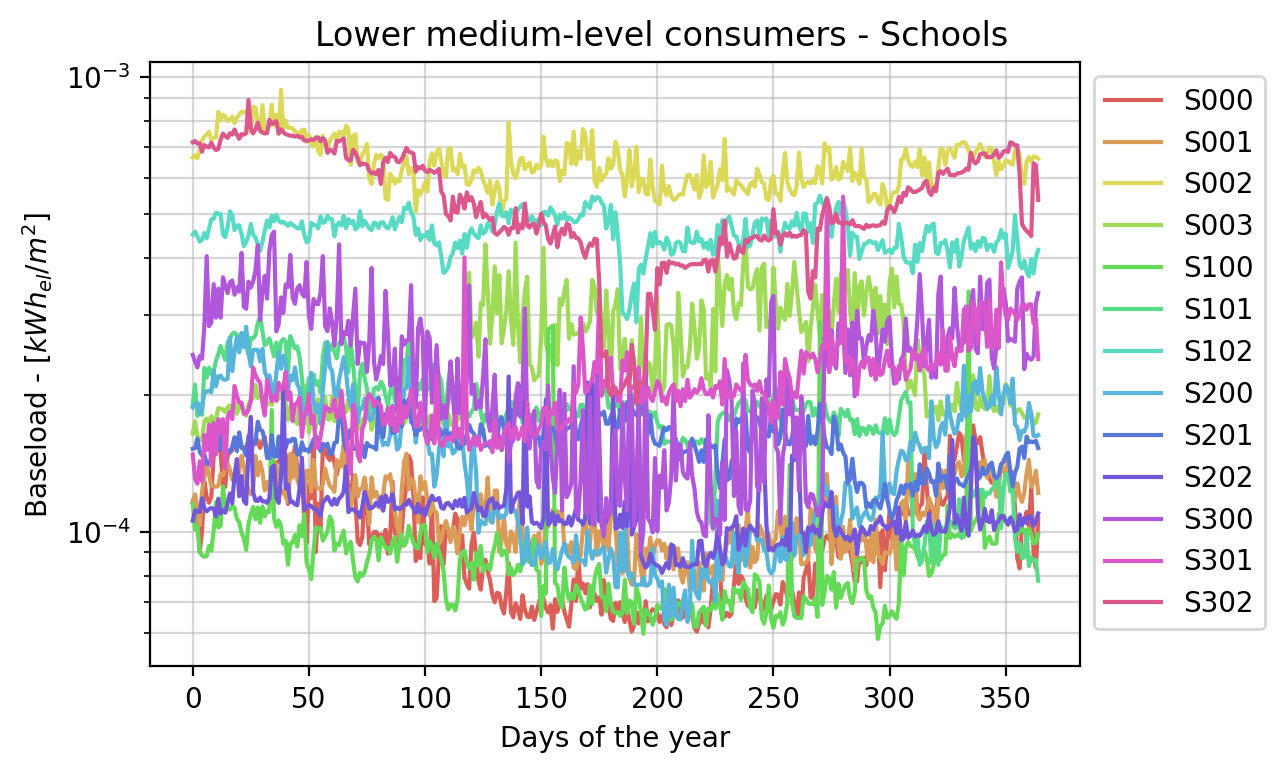
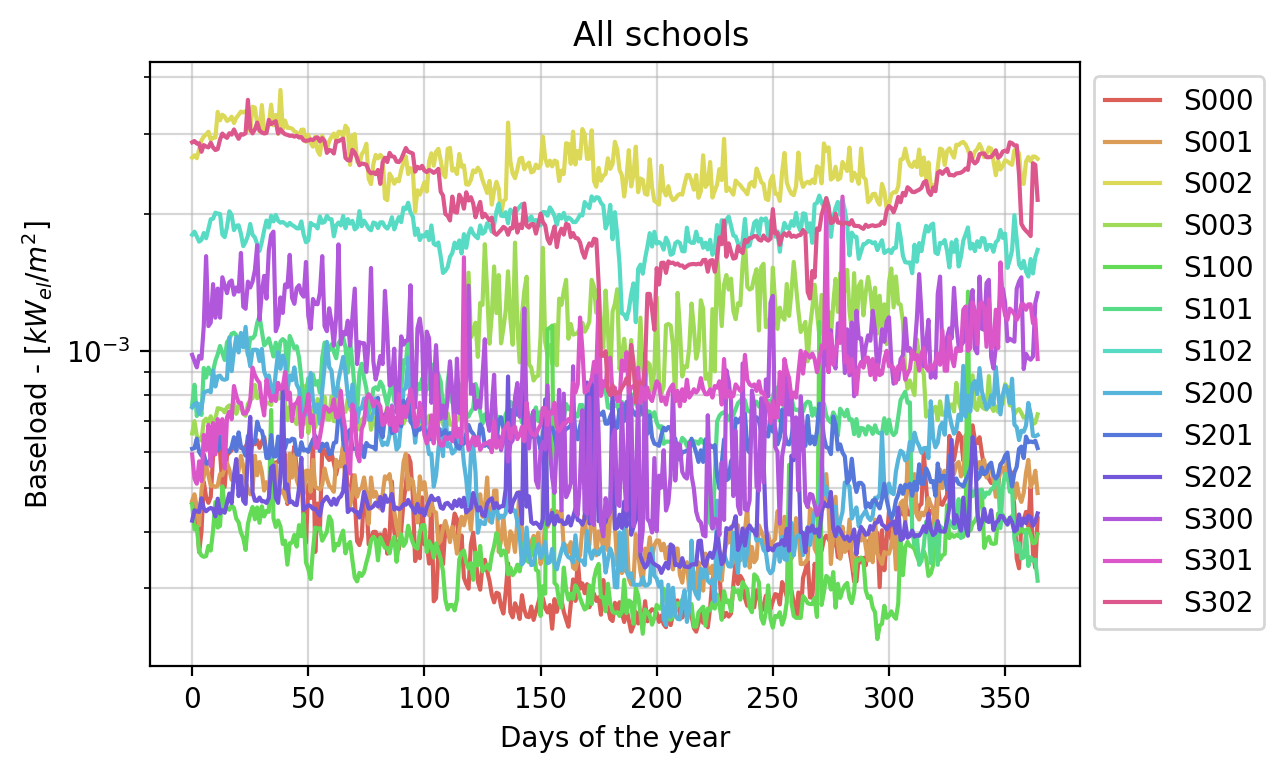
last push of the night

diff --git a/baseload_analysis.py b/baseload_analysis.py
@@ -227,13 +227,13 @@ relative_slope = []
 
 # Perform linear regression and plot for each column
 for i, column in enumerate(df.columns):
-    #if i in [0, 1, 4, 7, 9]: #low-level
-            #plt.ylim(0.00005, 0.0003)
+    if i in [0, 1, 4, 7, 9]: #low-level
+            plt.ylim(0.0002, 0.0012)
     #if i in [5, 8, 10, 11, 3]: #medium level
-            #plt.ylim(0.00005, 0.0005)
-    if i in [2, 6,12]:
+            #plt.ylim(0.0002, 0.002)
+    #if i in [2, 6,12]:
         
-            plt.ylim(0.00015, 0.001)
+            #plt.ylim(0.0005, 0.004)
             
             # Replace 0 values with NaN
             infra = df[column].copy()
@@ -245,7 +245,7 @@ for i, column in enumerate(df.columns):
     
             X = np.array(infra.index).reshape(-1, 1)   # Independent variable
             #print(X)
-            y = infra.values.reshape(-1, 1)              # Dependent variable
+            y = 4*infra.values.reshape(-1, 1)              # Dependent variable
             
             # Plot data points
             ax.scatter(X, y, color=palette[i], alpha=0.3, s=10)
@@ -272,12 +272,12 @@ for i, column in enumerate(df.columns):
             # Set labels and title
             ax.set_title(f'{column}')
             ax.set_xlabel('Days')
-            ax.set_ylabel('Baseload [$kWh_{el}/m^2$]')
+            ax.set_ylabel('Baseload [$kW_{el}/m^2$]')
             ax.legend()
 
 #plt.ylim(0, 3e-12)
 #plt.yscale("log")
-plt.title("High-level consumers")
+plt.title("Low-level consumers")
 # Place legend outside the plot
 plt.legend(bbox_to_anchor=(1.05, 1), loc='upper left')
 plt.grid(which='both')
@@ -464,27 +464,27 @@ plt.show()
 plt.figure()
 
 for i, column in enumerate(result.columns):
-    #if i in [0, 1, 4, 7, 9]: #low-level
+    if i in [0, 1, 4, 7, 9]: #low-level
             #plt.ylim(0.00005, 0.0003)
-    if i in [5, 8, 10, 11, 3]: #medium level
+    #if i in [5, 8, 10, 11, 3]: #medium level
             #plt.ylim(0.00005, 0.0005)
     #if i in [2, 6,12]:
     
             if column == "S202" or column == "S301":
-                mean = (baseloads[column].tail(365).values)
+                mean = 4*(baseloads[column].tail(365).values)
                 plt.plot(mean, color=my_colors[i], label=column)
             else : 
-                mean = (baseloads[column].head(365).values + baseloads[column].tail(365).values) / 2
+                mean = 4*(baseloads[column].head(365).values + baseloads[column].tail(365).values) / 2
                 plt.plot(mean, color=my_colors[i], label=column)
 
             print(f"{column} : {np.max(mean)/np.min(mean)}")
             
-plt.yscale('log')
+#plt.yscale('log')
 
 plt.grid(which="both", alpha=0.5)
 plt.xlabel("Days of the year")
-plt.ylabel("Baseload - [$kWh_{el}/m^2$]")
-plt.title("Medium-level consumers").set_position([0.55, 1])
+plt.ylabel("Baseload - [$kW_{el}/m^2$]")
+plt.title("Low-level consumers").set_position([0.55, 1])
 plt.legend(loc='upper left', bbox_to_anchor=(1, 1))
 #plt.legend()
 #plt.subplots_adjust(top=2)
@@ -500,7 +500,12 @@ x = np.array(["S100", "S101", "S201", "S202", "S301", "S102", "S200", "S300", "S
 # Create a bar plot
 plt.bar(np.arange(len(y)), 100*365*y, color="royalblue")
 
-print(100*365*y)
+yy = 100*365*y
+
+mi = min(yy)
+ma = max(yy)
+
+thresholds = [v/100*(ma-mi)+mi for v in [0, 20, 40, 60, 80, 100]]
 
 # Adding labels under each bar
 plt.xticks(np.arange(len(x)), x)
@@ -512,30 +517,8 @@ plt.grid(axis='y')
 
 #%% grading for comparison matrix - baseload trend score 
 
-def get_score(typology_names, parameters):
-    min_ = min(parameters)
-    max_= max(parameters)
     
-    grades = {}
-    classes = {}
-    
-    for i, value in enumerate(parameters):
-        grades[typology_names[i]] = 100*(parameters[i]-min_)/(max_-min_)
-    
-        if grades[typology_names[i]] <= 20 : 
-            classes[typology_names[i]] = 1
-        elif grades[typology_names[i]] <= 40 :
-            classes[typology_names[i]] = 2
-        elif grades[typology_names[i]] <= 60 :
-            classes[typology_names[i]] = 3
-        elif grades[typology_names[i]] <= 80 :
-            classes[typology_names[i]] = 4
-        elif grades[typology_names[i]] <= 100 :
-            classes[typology_names[i]] = 5
-    
-    return grades, classes
-    
-grades, classes = get_score(x, y)
+grades, classes, thresolds = f.get_score(x, y)
 
 plt.figure()
 for i, (k, v) in enumerate(classes.items()):

diff --git a/total_consumption.py b/total_consumption.py
@@ -78,7 +78,8 @@ def discriminate_typologies_absolute(Building_dict, LoadCurve_dict, Typo_list):
             surf_id_dict = {k: v for k, v in zip(Complete_IDs, surface_list)}
             address_id_dict = {k: v for k, v in zip(Complete_IDs, address_list)}
             simple_id_dict = {k:v for k, v in zip(Complete_IDs,simple_IDs)}
-            
+            simple_id_address_dict = {k:v for k, v in zip(simple_IDs, address_list)}
+            print(simple_id_address_dict)
             for col_name in load_selected.columns:
                 load_selected[col_name]
             
@@ -95,7 +96,7 @@ def discriminate_typologies_absolute(Building_dict, LoadCurve_dict, Typo_list):
             #renaiming columns with simple IDs to conserve anonimity 
             Typo_loads[typo].rename(columns=simple_id_dict, inplace=True)
       
-    return Typo_loads
+    return Typo_loads, simple_id_address_dict
 
 
 
@@ -182,10 +183,10 @@ print(pv_2022_dict)
 Typo_list = ["Ecole", "Culture", "Apems", "Commune", "Buvette", "Parking"]
 print(type(Building_dict_2023), type(LoadCurve_2022_dict), type(Typo_list))
 #getting typologies from 2022
-Typo_loads_2022 = discriminate_typologies_absolute(Building_dict_2023, LoadCurve_2022_dict, Typo_list)
+Typo_loads_2022, _ = p.discriminate_typologies(Building_dict_2023, LoadCurve_2022_dict, Typo_list)
 
 #getting typologies from 2023
-Typo_loads_2023 = discriminate_typologies_absolute(Building_dict_2023, LoadCurve_2023_dict, Typo_list)
+Typo_loads_2023, Correspondance = p.discriminate_typologies(Building_dict_2023, LoadCurve_2023_dict, Typo_list)
 
 # creating overall dictionnary
 Typo_all_loads = {}
@@ -193,6 +194,10 @@ for typo in Typo_list:
     Typo_all_loads[typo] = pd.concat([Typo_loads_2022[typo], Typo_loads_2023[typo]], axis=0)
     
 #print(Typo_loads)
+
+
+
+
 
 #%%
 # parameters to change
@@ -210,10 +215,68 @@ df_nan = Loads.replace(0, np.nan)
 mean_values = df_nan.mean()
 
 
-plt.scatter(range(len(mean_values)), 4*mean_values)
+plt.bar(range(len(mean_values)), 4*mean_values, color=sb.color_palette("hls", 13)[8])
 # Set the x-axis ticks to the list of names
 plt.xticks(range(len(mean_values)), Loads.columns.tolist())
-plt.yscale("log")
+#plt.yscale("log")
+plt.ylabel("load [$kW_{el}/m^2$]")
+plt.xlabel("Consumers' IDs")
+plt.title("Overall average load per meter squared")
+plt.grid(axis="y")
+
+#%% grading for comparison matrix - overload score 
+
+x = Loads.columns
+y = 4*mean_values
+
+def get_score(typology_names, parameters):
+    min_ = min(parameters)
+    max_= max(parameters)
+    
+    grades = {}
+    classes = {}
+    
+    for i, value in enumerate(parameters):
+        grades[typology_names[i]] = 100*(parameters[i]-min_)/(max_-min_)
+    
+        if grades[typology_names[i]] <= 20 : 
+            classes[typology_names[i]] = 1
+        elif grades[typology_names[i]] <= 40 :
+            classes[typology_names[i]] = 2
+        elif grades[typology_names[i]] <= 60 :
+            classes[typology_names[i]] = 3
+        elif grades[typology_names[i]] <= 80 :
+            classes[typology_names[i]] = 4
+        elif grades[typology_names[i]] <= 100 :
+            classes[typology_names[i]] = 5
+    
+    thresholds = [v/100*(max_-min_) + min_ for v in [0, 20, 40, 60, 80 , 100]]
+
+
+    
+    return grades, classes, thresholds 
+
+grades, classes, thresholds = get_score(x, y)
+
+plt.figure()
+for i, (k, v) in enumerate(classes.items()):
+    print(type(v))
+    if v == 1:
+        plt.bar(i,v, color="green")
+    elif v == 2:
+        plt.bar(i,v, color="yellow")
+    elif v == 3:
+        plt.bar(i,v, color="orange")
+    elif v == 4:
+        plt.bar(i,v, color="red" )
+    elif v == 5:
+        plt.bar(i,v, color="purple")
+plt.grid(axis='y')
+plt.xticks(range(len(x)), x)
+plt.show()
+#%% threshold calculation : 
+    
+
 
 #%%
 
@@ -264,3 +327,4 @@ plt.ylabel("Mean daily consumption [$kWh_{el}$]")
 plt.title("Mean daily consumption")
 plt.grid()
 plt.show()
+

diff --git a/functions.py b/functions.py
@@ -484,6 +484,33 @@ def get_baseload_2(df):
     return result
 
 
+def get_score(typology_names, parameters):
+    min_ = min(parameters)
+    max_= max(parameters)
+    
+    grades = {}
+    classes = {}
+    
+    for i, value in enumerate(parameters):
+        grades[typology_names[i]] = 100*(parameters[i]-min_)/(max_-min_)
+    
+        if grades[typology_names[i]] <= 20 : 
+            classes[typology_names[i]] = 1
+        elif grades[typology_names[i]] <= 40 :
+            classes[typology_names[i]] = 2
+        elif grades[typology_names[i]] <= 60 :
+            classes[typology_names[i]] = 3
+        elif grades[typology_names[i]] <= 80 :
+            classes[typology_names[i]] = 4
+        elif grades[typology_names[i]] <= 100 :
+            classes[typology_names[i]] = 5
+    
+    thresholds = [v/100*(max_-min_) + min_ for v in [0, 20, 40, 60, 80 , 100]]
+
+
+    
+    return grades, classes, thresholds 
+
 
 
 

diff --git a/scoring.py b/scoring.py
@@ -525,6 +525,10 @@ schools = month_df.columns.to_list()
 overload_grades = {}
 overload_class = {}
 
+grades, classes, thresholds = f.get_score(schools, max_values_mean)
+
+#%%
+
 for i, value in enumerate(max_values_mean.values):
     overload_grades[schools[i]] = 100*(max_values_mean.values[i]-min_overlaod)/(max_overlaod-min_overlaod)
 
@@ -556,4 +560,5 @@ plt.grid(axis='y')
 plt.xticks(range(len(schools)), schools)
 plt.show()
 #%%
+
 
